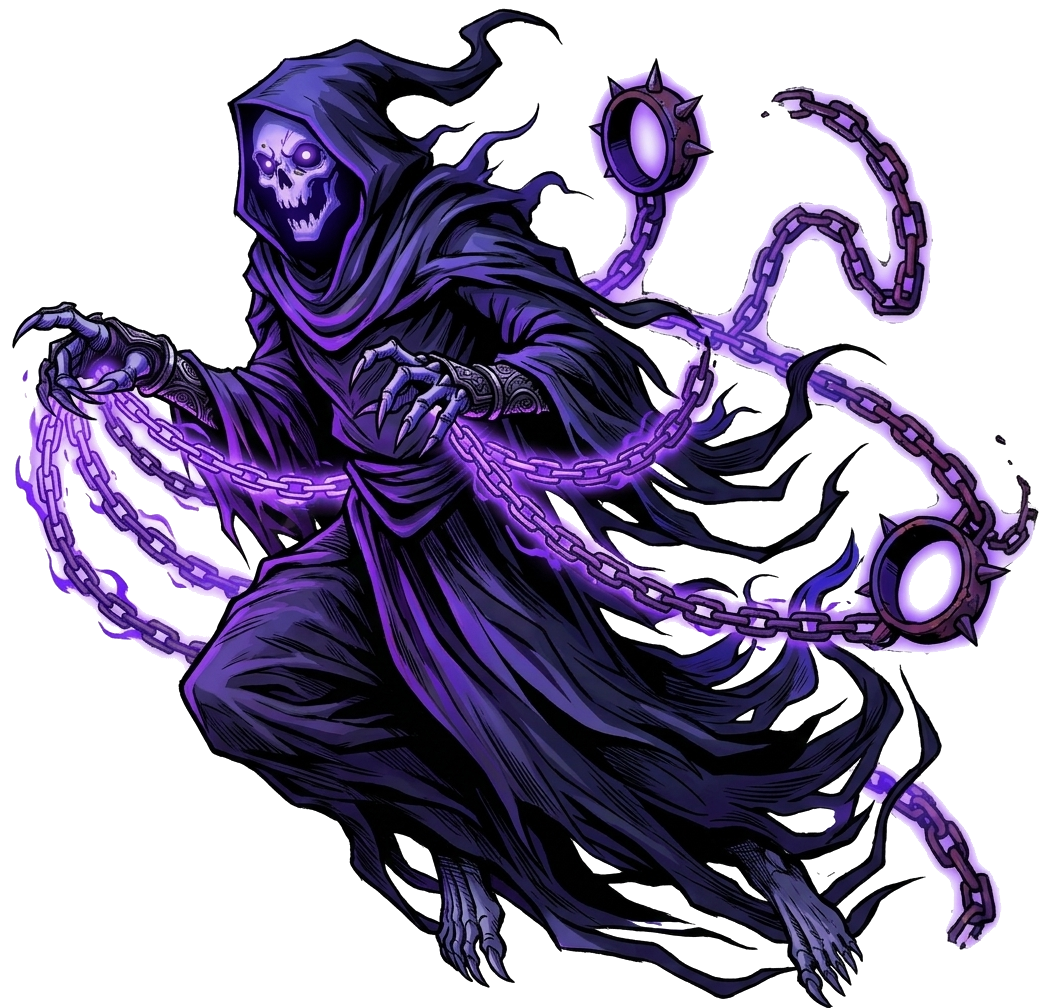
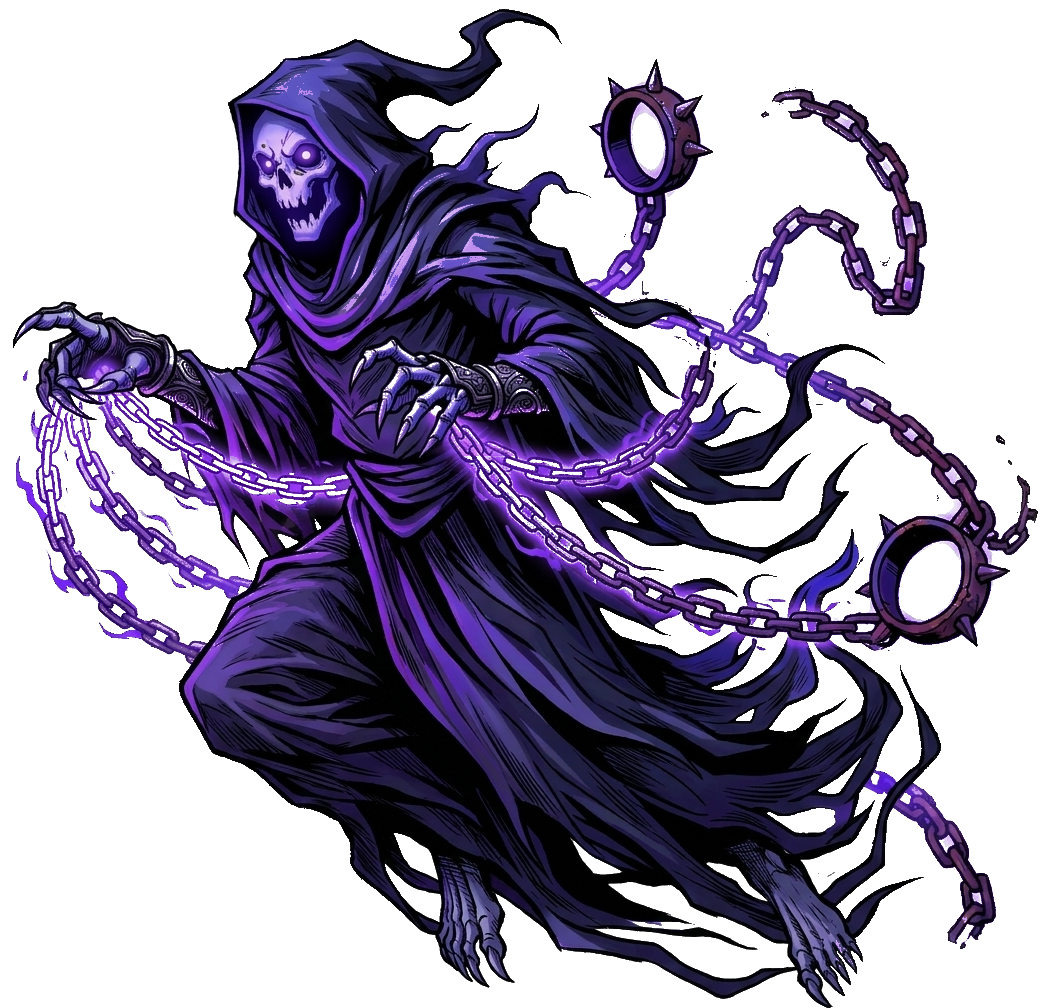
fix(art): remove white backgrounds from spectral chains and shackles in purple_44_devorador_intelecto

diff --git a/src/components/CardView.tsx b/src/components/CardView.tsx
@@ -363,7 +363,7 @@ export const CardView: React.FC<CardViewProps> = ({
           <div className={`mtg-token-art aura-${displayCard.domain}`}>
             {!imgError && displayCard.imagePath ? (
               <img
-                src={`${displayCard.imagePath}?v=42`}
+                src={`${displayCard.imagePath}?v=43`}
                 alt={displayName}
                 className="mtg-token-img"
                 onError={() => setImgError(true)}
@@ -520,7 +520,7 @@ export const CardView: React.FC<CardViewProps> = ({
 
           {!imgError && displayCard.imagePath ? (
             <img
-              src={`${displayCard.imagePath}?v=42`}
+              src={`${displayCard.imagePath}?v=43`}
               alt={displayName}
               className="card-cutout-img"
               onError={() => setImgError(true)}

diff --git a/src/components/MythologyAtlasView.tsx b/src/components/MythologyAtlasView.tsx
@@ -342,7 +342,7 @@ export const MythologyAtlasView: React.FC<MythologyAtlasViewProps> = ({ onInspec
                         title={`Clique para inspecionar ${card.name}`}
                       >
                         <img
-                          src={`${card.imagePath}?v=15`}
+                          src={`${card.imagePath}?v=16`}
                           alt={card.name}
                           className="poem-card-medallion-img"
                           loading="lazy"
